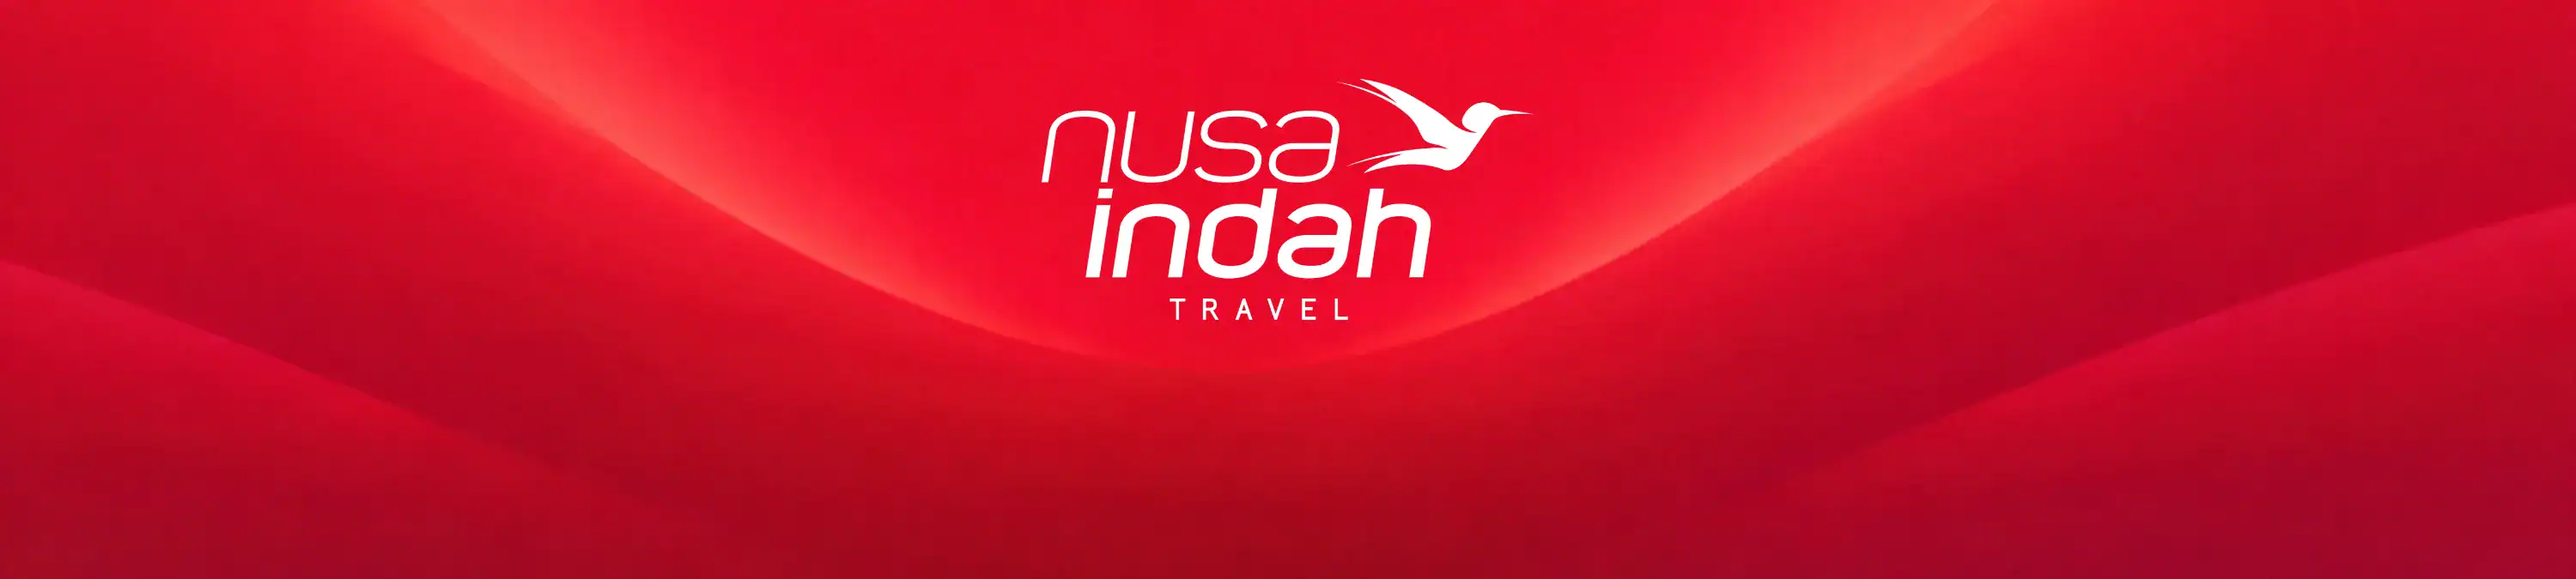
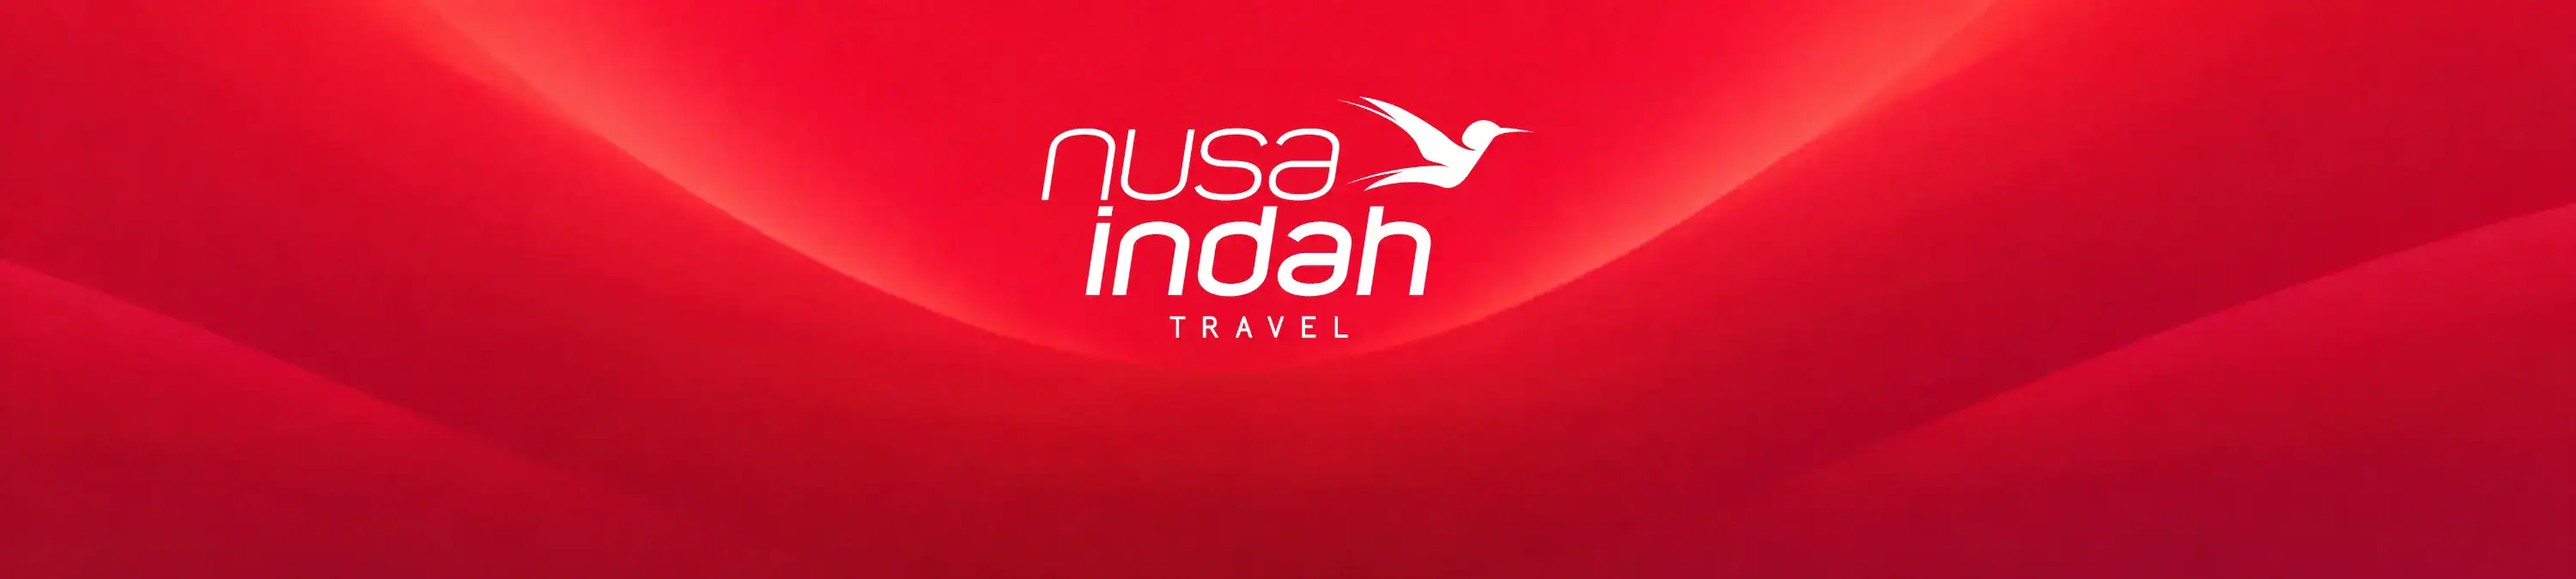
fix: change nusa indah hero img, remove gmap from ferry detail

Changed region(s): [[0.403, 0.1244, 0.589, 0.5911]]

diff --git a/src/services/yokkeService.js b/src/services/yokkeService.js
@@ -3,8 +3,9 @@ const BASE_URL = process.env.YOKKE_BASE_URL;
 const CLIENT_ID = process.env.YOKKE_CLIENT_ID;
 const CLIENT_SECRET = process.env.YOKKE_CLIENT_SECRET;
 const API_KEY = process.env.YOKKE_API_KEY;
+
 // === TOKEN CACHE ===
-// Max 3 token requests/minute — NEVER fetch a new token per request
+// Max 3 token requests/minute
 let _cachedToken = null;
 let _tokenExpiresAt = 0;
 const getAccessToken = async () => {

diff --git a/src/models/orderModel.js b/src/models/orderModel.js
@@ -1,7 +1,7 @@
 const db = require('../config/db');
 
 // New Order
-const createOrder = async ({ userId, draftOrder, basePrice, taxAmount, playformFee, grandTotal }) => {
+const createOrder = async ({ userId, draftOrder, basePrice, taxAmount, platformFee, grandTotal }) => {
     const client = await db.connect();
     try {
         await client.query('BEGIN');
